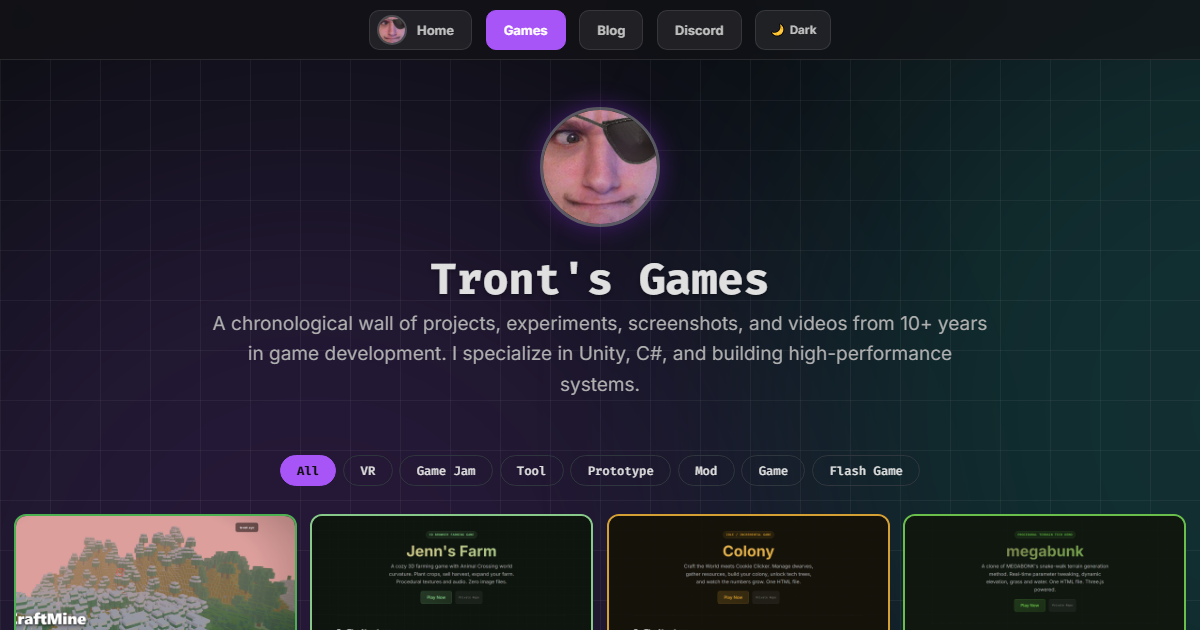
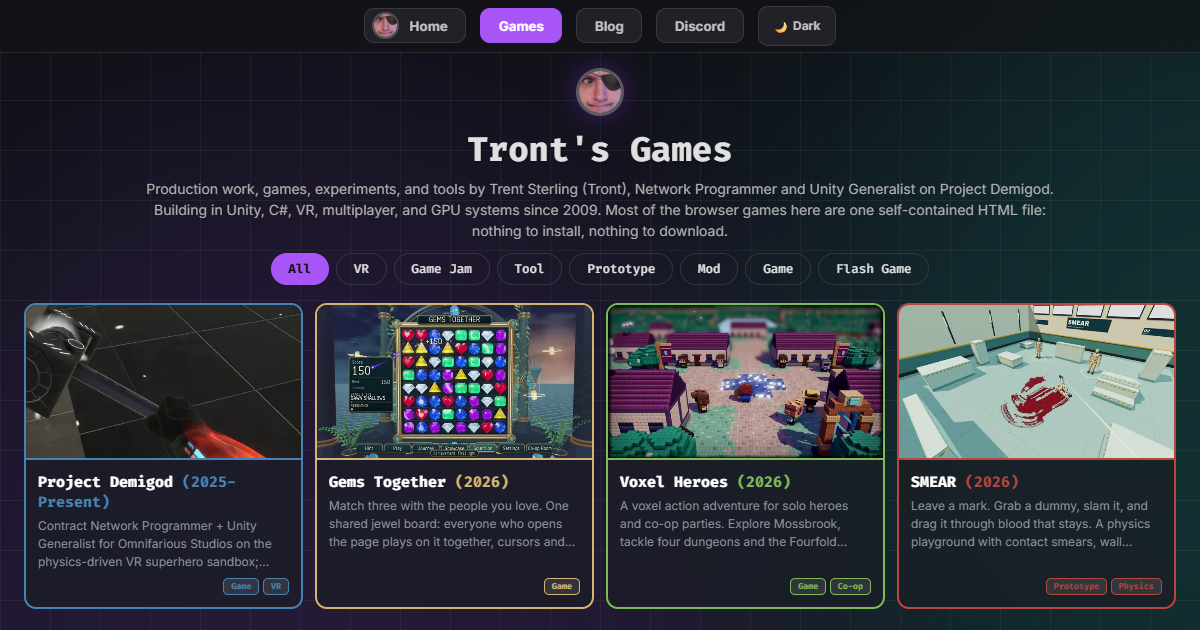
Refresh games share image from current gameplay gallery

diff --git a/games/index.html b/games/index.html
@@ -19,12 +19,17 @@
     <meta property="og:type" content="website">
     <meta property="og:title" content="Trent Sterling (Tront) | Games, Networking &amp; Unity Portfolio">
     <meta property="og:description" content="Project Demigod production work, multiplayer systems, VR, rendering experiments, games, and developer tools by Trent Sterling.">
-    <meta property="og:image" content="https://tront.xyz/games/og-image.png">
+    <meta property="og:image" content="https://tront.xyz/games/og-image-a1678256fc04.png">
+    <meta property="og:image:type" content="image/png">
+    <meta property="og:image:width" content="1200">
+    <meta property="og:image:height" content="630">
+    <meta property="og:image:alt" content="Tront's Games portfolio with gameplay from Project Demigod, Gems Together, Voxel Heroes, and SMEAR.">
     <meta property="og:url" content="https://tront.xyz/games/">
     <meta name="twitter:card" content="summary_large_image">
     <meta name="twitter:title" content="Trent Sterling (Tront) | Games, Networking &amp; Unity Portfolio">
     <meta name="twitter:description" content="Project Demigod production work, multiplayer systems, VR, rendering experiments, games, and developer tools.">
-    <meta name="twitter:image" content="https://tront.xyz/games/og-image.png">
+    <meta name="twitter:image" content="https://tront.xyz/games/og-image-a1678256fc04.png">
+    <meta name="twitter:image:alt" content="Tront's Games portfolio with gameplay from Project Demigod, Gems Together, Voxel Heroes, and SMEAR.">
     <meta name="twitter:creator" content="@Trent_Sterling">
     <link rel="icon" href="/favicon.png" type="image/png">
     <link rel="preconnect" href="https://fonts.googleapis.com">

diff --git a/tools/game-media/README.md b/tools/game-media/README.md
@@ -21,6 +21,20 @@ card media remain in ignored `.local/` for further editing and comparison.
 
 ## Local review
 
+After changing the gallery's cards or media, refresh its static social preview:
+
+```powershell
+node tools/game-media/refresh-og.cjs
+```
+
+This captures the current first four cards at 1200 x 630 using their reviewed
+gameplay posters. Capture-only spacing keeps the full row readable. It updates
+`games/og-image.png`, writes a content-versioned PNG, and points both Open Graph
+and Twitter metadata at that new filename. Commit all of those changes together.
+If the first row changes, update both image alt descriptions in `games/index.html`.
+Old Discord messages may retain cached previews; share a fresh page URL such as
+`https://tront.xyz/games/?v=20261012` when checking a newly published image.
+
 From the site root, run `node tools/game-media/server.cjs`.
 
 - Gallery: http://127.0.0.1:8965/games/
